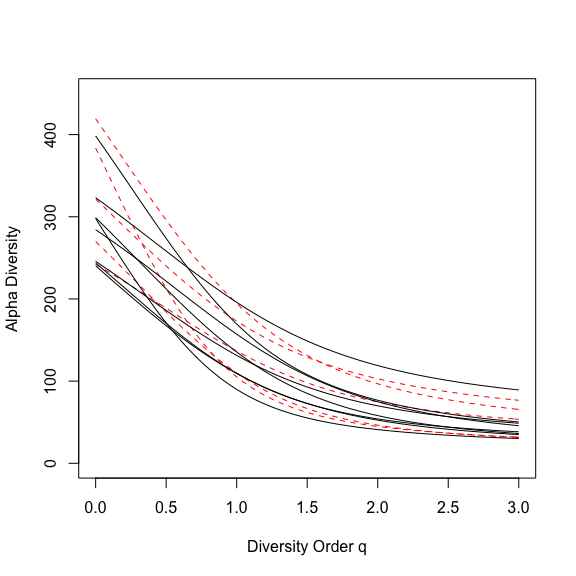
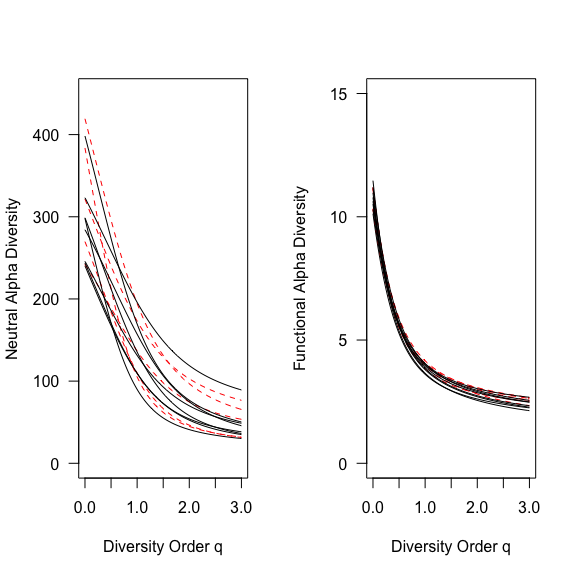
with diversity graphs

diff --git a/CouacAnalyses.md b/CouacAnalyses.md
@@ -25,9 +25,11 @@ Bruno Hérault & co
     -   [Ethnobotanical Analysis](#ethnobotanical-analysis-1)
         -   [Traditional uses](#traditional-uses-1)
         -   [Plant parts](#plant-parts-1)
+        -   [Use values and spatial diversity](#use-values-and-spatial-diversity)
 -   [Supplementary materials](#supplementary-materials)
     -   [Effects on anthropization on Botanical Families](#effects-on-anthropization-on-botanical-families)
     -   [Indicator Species in anthropized AAP plots](#indicator-species-in-anthropized-aap-plots)
+    -   [Effects on anthropization on Forest diversity](#effects-on-anthropization-on-forest-diversity)
 
 ``` r
 knitr::opts_chunk$set(echo = TRUE)
@@ -288,55 +290,7 @@ p <- ggplot(data = data_trait, aes(x=var, y=Trait_Value)) +
 
 ### Forest Diversity
 
-Alpha diversities were assessed for each plot through their diversity profiles that allow to tract the relative importance of rare species in shaping the the plot ranking. Generally, all plots (AAPs and ANPs) share a similar decreasing pattern of diversity. Nevertheless, for q = 0 (species richness),the anthropized plots AAP tend to have higher diversity (Wilcoxon tests, P=0.12) but the weak signal disappears with increasing q (P=0.43 for q=1, P=0.72 for q=2).
-
-``` r
-library(entropart)
-meta<-MetaCommunity(t(data_dca))
-Profile <- DivProfile(q.seq = seq(0, 3, 0.03), meta, Biased = FALSE)
-q0<-wilcox.test(Profile$CommunityAlphaDiversities[1,as.numeric(tab$Type)==1], x = Profile$CommunityAlphaDiversities[1,as.numeric(tab$Type)==2])
-q1<-wilcox.test(Profile$CommunityAlphaDiversities[33,as.numeric(tab$Type)==1], x = Profile$CommunityAlphaDiversities[33,as.numeric(tab$Type)==2])
-q2<-wilcox.test(Profile$CommunityAlphaDiversities[67,as.numeric(tab$Type)==1], x = Profile$CommunityAlphaDiversities[67,as.numeric(tab$Type)==2])
-plot(rownames(Profile$CommunityAlphaDiversities),Profile$CommunityAlphaDiversities[,1], type="l", col="red", ylab="Alpha Diversity", xlab="Diversity Order q", lty=2, ylim=c(0,450))
-color<-as.character(tab$Type)
-color[color=="AAP"]<-"red"
-color[color=="ANP"]<-"black"
-for (i in 2:13){
-  points(rownames(Profile$CommunityAlphaDiversities),Profile$CommunityAlphaDiversities[,i], type="l", lty=((-as.numeric(tab$Type)+3)[i]), col=color[i])
-}
-```
-
-![](CouacAnalyses_files/figure-markdown_github/Diver-1.png)
-
-``` r
-# data_tree<-data.frame(name=unique(data$species))
-# library(stringr)
-# data_tree$genus<-str_split_fixed(data_tree$name, " ", 2)[,1]
-# data_tree$species<-str_split_fixed(data_tree$name, " ", 2)[,2]
-# library(BIOMASS)
-# data_tree$wd<-getWoodDensity(data_tree$genus,data_tree$species)$meanWD
-# data_tree<-merge(data_tree,traits, by.x="name", by.y="Taxon", all.x=T, all.y=F)
-# test<-tapply(data_tree$Seed,data_tree$genus,mean,na.rm=T)
-# for (i in 1:dim(data_tree)[1])
-# {if (is.na(data_tree$Seed[i])==T)  {data_tree$Seed[i]<-test[data_tree$genus[i] == names(test)]}
-# }
-# test<-tapply(data_tree$SLA,data_tree$genus,mean,na.rm=T)
-# for (i in 1:dim(data_tree)[1])
-# {if (is.na(data_tree$SLA[i])==T)  {data_tree$SLA[i]<-test[data_tree$genus[i] == names(test)]}
-# }
-# test<-tapply(data_tree$Height,data_tree$genus,mean,na.rm=T)
-# for (i in 1:dim(data_tree)[1])
-# {if (is.na(data_tree$Height[i])==T)  {data_tree$Height[i]<-test[data_tree$genus[i] == names(test)]}
-#   }
-# data<-merge(data,data_tree, by.x="species", by.y="name", all.x=T, all.y=F) # 18% of missing values, we first use phylo conserv and then MICE to fill in
-#library(mice)
-#summary(data_tree)
-#data_tree<-complete(mice(data_tree, m=20))
-#save(data_tree, file="data_tree.R")
-load("data_tree.R")
-```
-
-*Diversity profiles of the 5 Apparently Anthropized Plot (AAP, red dotted lines) and Apparently Non-anthropized Plot (ANP, black plain lines).*
+Alpha diversities were assessed for each plot through their neutral and functional diversity profiles that allow to tract the relative importance of rare species in shaping the the plot ranking. Generally, all plots (AAPs and ANPs) share a similar decreasing pattern of diversity. Nevertheless, for q = 0 (species richness),the anthropized plots AAP tend to have higher neutral diversity (Wilcoxon tests, P=0.12) but the weak signal disappears with increasing q (P=0.43 for q=1, P=0.72 for q=2). Nothing was detected for functional diversity (see Supp Mat .
 
 Ethnobotanical Analysis
 -----------------------
@@ -425,6 +379,10 @@ p <- ggplot(data = data_part, aes(x=var, y=Part)) +
 
 ![](CouacAnalyses_files/figure-markdown_github/parts-1.png)
 
+### Use values and spatial diversity
+
+As for section 3.3.2, an ANOVA was performed in order to detect relationships between the parts potentially used for each plant and species composition of plots. The trends observed are shown in figure 7. Plants with useful seeds and fruits (p &lt; 0.02), leaves and flowers (p &lt; 0.03), underground organs (p &lt; 0.12) and exudates (p &lt; 0.17) were, at diverse scales, more often present on AAPs than on ANPs. The most striking difference concerned species with useful seeds and fruits. Conversely, an increase in the abundance of plants used for their bark (p &lt; 0.06) and to a lesser extent of those used for their wood and stems (p &lt; 0.29) was observed for the ANPs. The different patterns observed appear to support the hypothesis that pre-Columbian humans had a long-term influence on present day patterns of biodiversity.
+
 Supplementary materials
 =======================
 
@@ -511,3 +469,73 @@ kable(indic)
 | Fabaceae        | Swartzia polyphylla     | ANP       |     0.861|   0.045|
 
 *Indicator species in either Apparently Anthropized Plot (AAP) or Apparently Non-anthropized Plot (ANP), Families, Botanical names, Strength of the Association and P values.*
+
+Effects on anthropization on Forest diversity
+---------------------------------------------
+
+``` r
+library(entropart)
+meta<-MetaCommunity(t(data_dca))
+Profile <- DivProfile(q.seq = seq(0, 3, 0.03), meta, Biased = FALSE)
+q0<-wilcox.test(Profile$CommunityAlphaDiversities[1,as.numeric(tab$Type)==1], x = Profile$CommunityAlphaDiversities[1,as.numeric(tab$Type)==2])
+q1<-wilcox.test(Profile$CommunityAlphaDiversities[33,as.numeric(tab$Type)==1], x = Profile$CommunityAlphaDiversities[33,as.numeric(tab$Type)==2])
+q2<-wilcox.test(Profile$CommunityAlphaDiversities[67,as.numeric(tab$Type)==1], x = Profile$CommunityAlphaDiversities[67,as.numeric(tab$Type)==2])
+par(mfrow=c(1,2), las=1)
+plot(rownames(Profile$CommunityAlphaDiversities),Profile$CommunityAlphaDiversities[,1], type="l", col="red", ylab="Neutral Alpha Diversity", xlab="Diversity Order q", lty=2, ylim=c(0,450))
+color<-as.character(tab$Type)
+color[color=="AAP"]<-"red"
+color[color=="ANP"]<-"black"
+for (i in 2:13){
+  points(rownames(Profile$CommunityAlphaDiversities),Profile$CommunityAlphaDiversities[,i], type="l", lty=((-as.numeric(tab$Type)+3)[i]), col=color[i])
+}
+# data_tree<-data.frame(name=unique(data$species))
+# library(stringr)
+# data_tree$genus<-str_split_fixed(data_tree$name, " ", 2)[,1]
+# data_tree$species<-str_split_fixed(data_tree$name, " ", 2)[,2]
+# library(BIOMASS)
+# data_tree$wd<-getWoodDensity(data_tree$genus,data_tree$species)$meanWD
+# data_tree<-merge(data_tree,traits, by.x="name", by.y="Taxon", all.x=T, all.y=F)
+# test<-tapply(data_tree$Seed,data_tree$genus,mean,na.rm=T)
+# for (i in 1:dim(data_tree)[1])
+# {if (is.na(data_tree$Seed[i])==T)  {data_tree$Seed[i]<-test[data_tree$genus[i] == names(test)]}
+# }
+# test<-tapply(data_tree$SLA,data_tree$genus,mean,na.rm=T)
+# for (i in 1:dim(data_tree)[1])
+# {if (is.na(data_tree$SLA[i])==T)  {data_tree$SLA[i]<-test[data_tree$genus[i] == names(test)]}
+# }
+# test<-tapply(data_tree$Height,data_tree$genus,mean,na.rm=T)
+# for (i in 1:dim(data_tree)[1])
+# {if (is.na(data_tree$Height[i])==T)  {data_tree$Height[i]<-test[data_tree$genus[i] == names(test)]}
+#   }
+# data<-merge(data,data_tree, by.x="species", by.y="name", all.x=T, all.y=F) # 18% of missing values, we first use phylo conserv and then MICE to fill in
+#library(mice)
+#summary(data_tree)
+#data_tree<-complete(mice(data_tree, m=20))
+#save(data_tree, file="data_tree.R")
+load("data_tree.R")
+data_tree$Seed<-as.ordered((data_tree$Seed))
+row.names(data_tree)<-data_tree$name
+data_tree[,1:3]<-NULL
+library(cluster)
+data.daisy <- daisy(data_tree, metric = "gower")
+data.agnes <- agnes(data.daisy, method="ward")
+data_phylo <- as.hclust(data.agnes)
+#Profile_phylo <- DivProfile(q.seq = seq(0, 3, 0.03), MC=meta, Biased = FALSE, Tree=data_phylo)  #maybe try also with a similarity matrix Z because with a tree it's fuzzy and a lot of variance has been lost when building the tree
+#save(Profile_phylo, file="Profile_phylo.R")
+load("Profile_phylo.R")
+#Profile_dqz <- DivProfile(q.seq = seq(0, 3, 0.03), MC=meta, Biased = FALSE, Z=1-as.matrix(data.daisy)) # idem keep with Profile_Phylo
+q0<-wilcox.test(Profile_phylo$CommunityAlphaDiversities[1,as.numeric(tab$Type)==1], x = Profile_phylo$CommunityAlphaDiversities[1,as.numeric(tab$Type)==2])
+q1<-wilcox.test(Profile_phylo$CommunityAlphaDiversities[33,as.numeric(tab$Type)==1], x = Profile_phylo$CommunityAlphaDiversities[33,as.numeric(tab$Type)==2])
+q2<-wilcox.test(Profile_phylo$CommunityAlphaDiversities[67,as.numeric(tab$Type)==1], x = Profile_phylo$CommunityAlphaDiversities[67,as.numeric(tab$Type)==2])
+plot(rownames(Profile_phylo$CommunityAlphaDiversities),Profile_phylo$CommunityAlphaDiversities[,1], type="l", col="red", ylab="Functional Alpha Diversity", xlab="Diversity Order q", lty=2, ylim=c(0,15))
+color<-as.character(tab$Type)
+color[color=="AAP"]<-"red"
+color[color=="ANP"]<-"black"
+for (i in 2:13){
+  points(rownames(Profile_phylo$CommunityAlphaDiversities),Profile_phylo$CommunityAlphaDiversities[,i], type="l", lty=((-as.numeric(tab$Type)+3)[i]), col=color[i])
+}
+```
+
+![](CouacAnalyses_files/figure-markdown_github/Diver-1.png)
+
+*Neutral (a) and (b) Functional Diversity profiles of the 5 Apparently Anthropized Plot (AAP, red dotted lines) and Apparently Non-anthropized Plot (ANP, black plain lines).*
